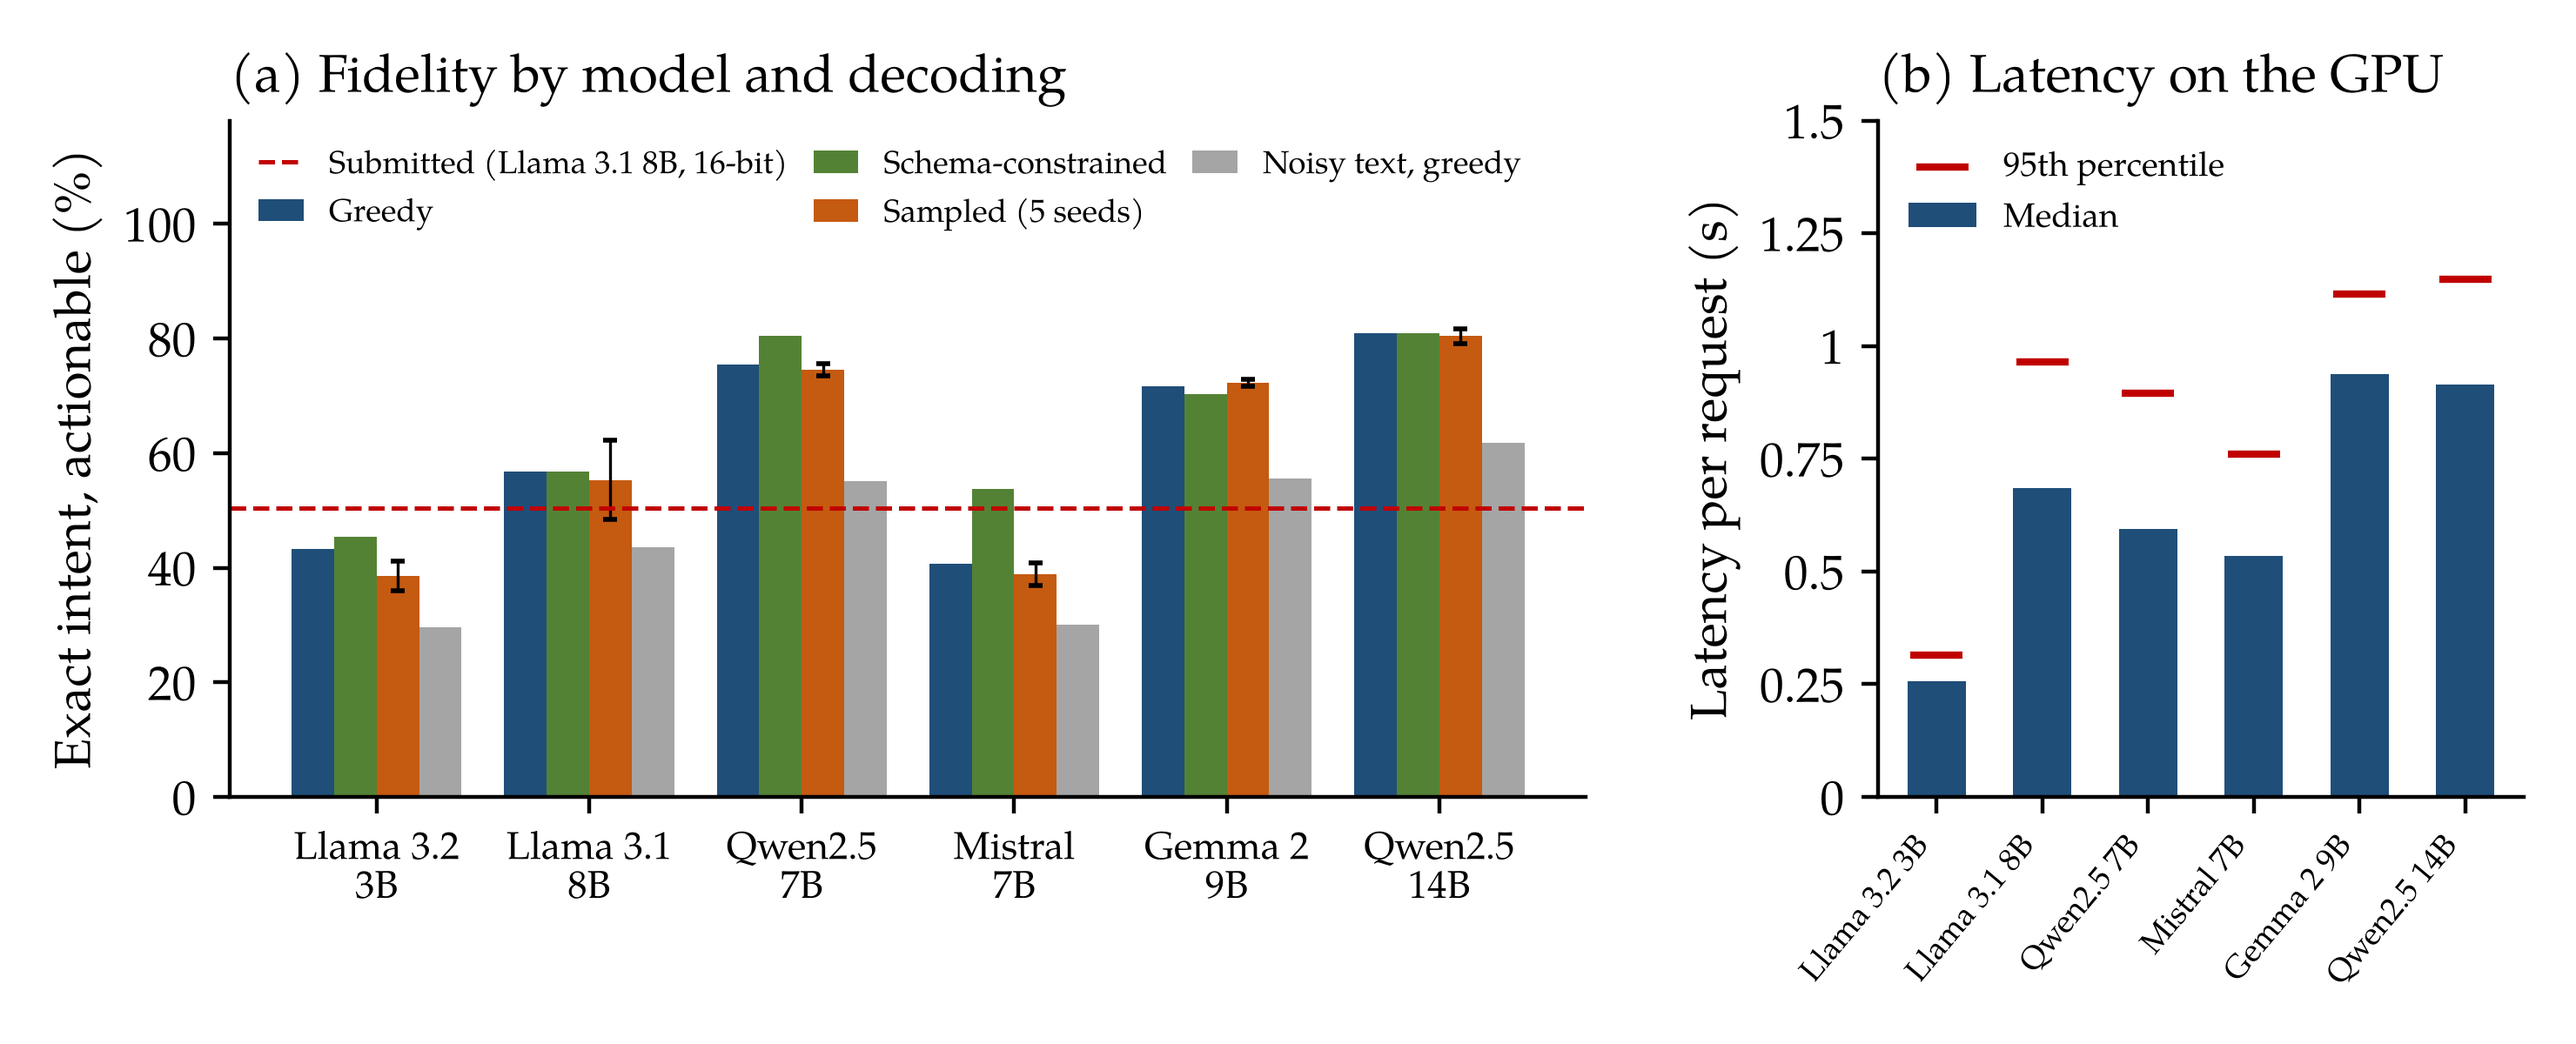
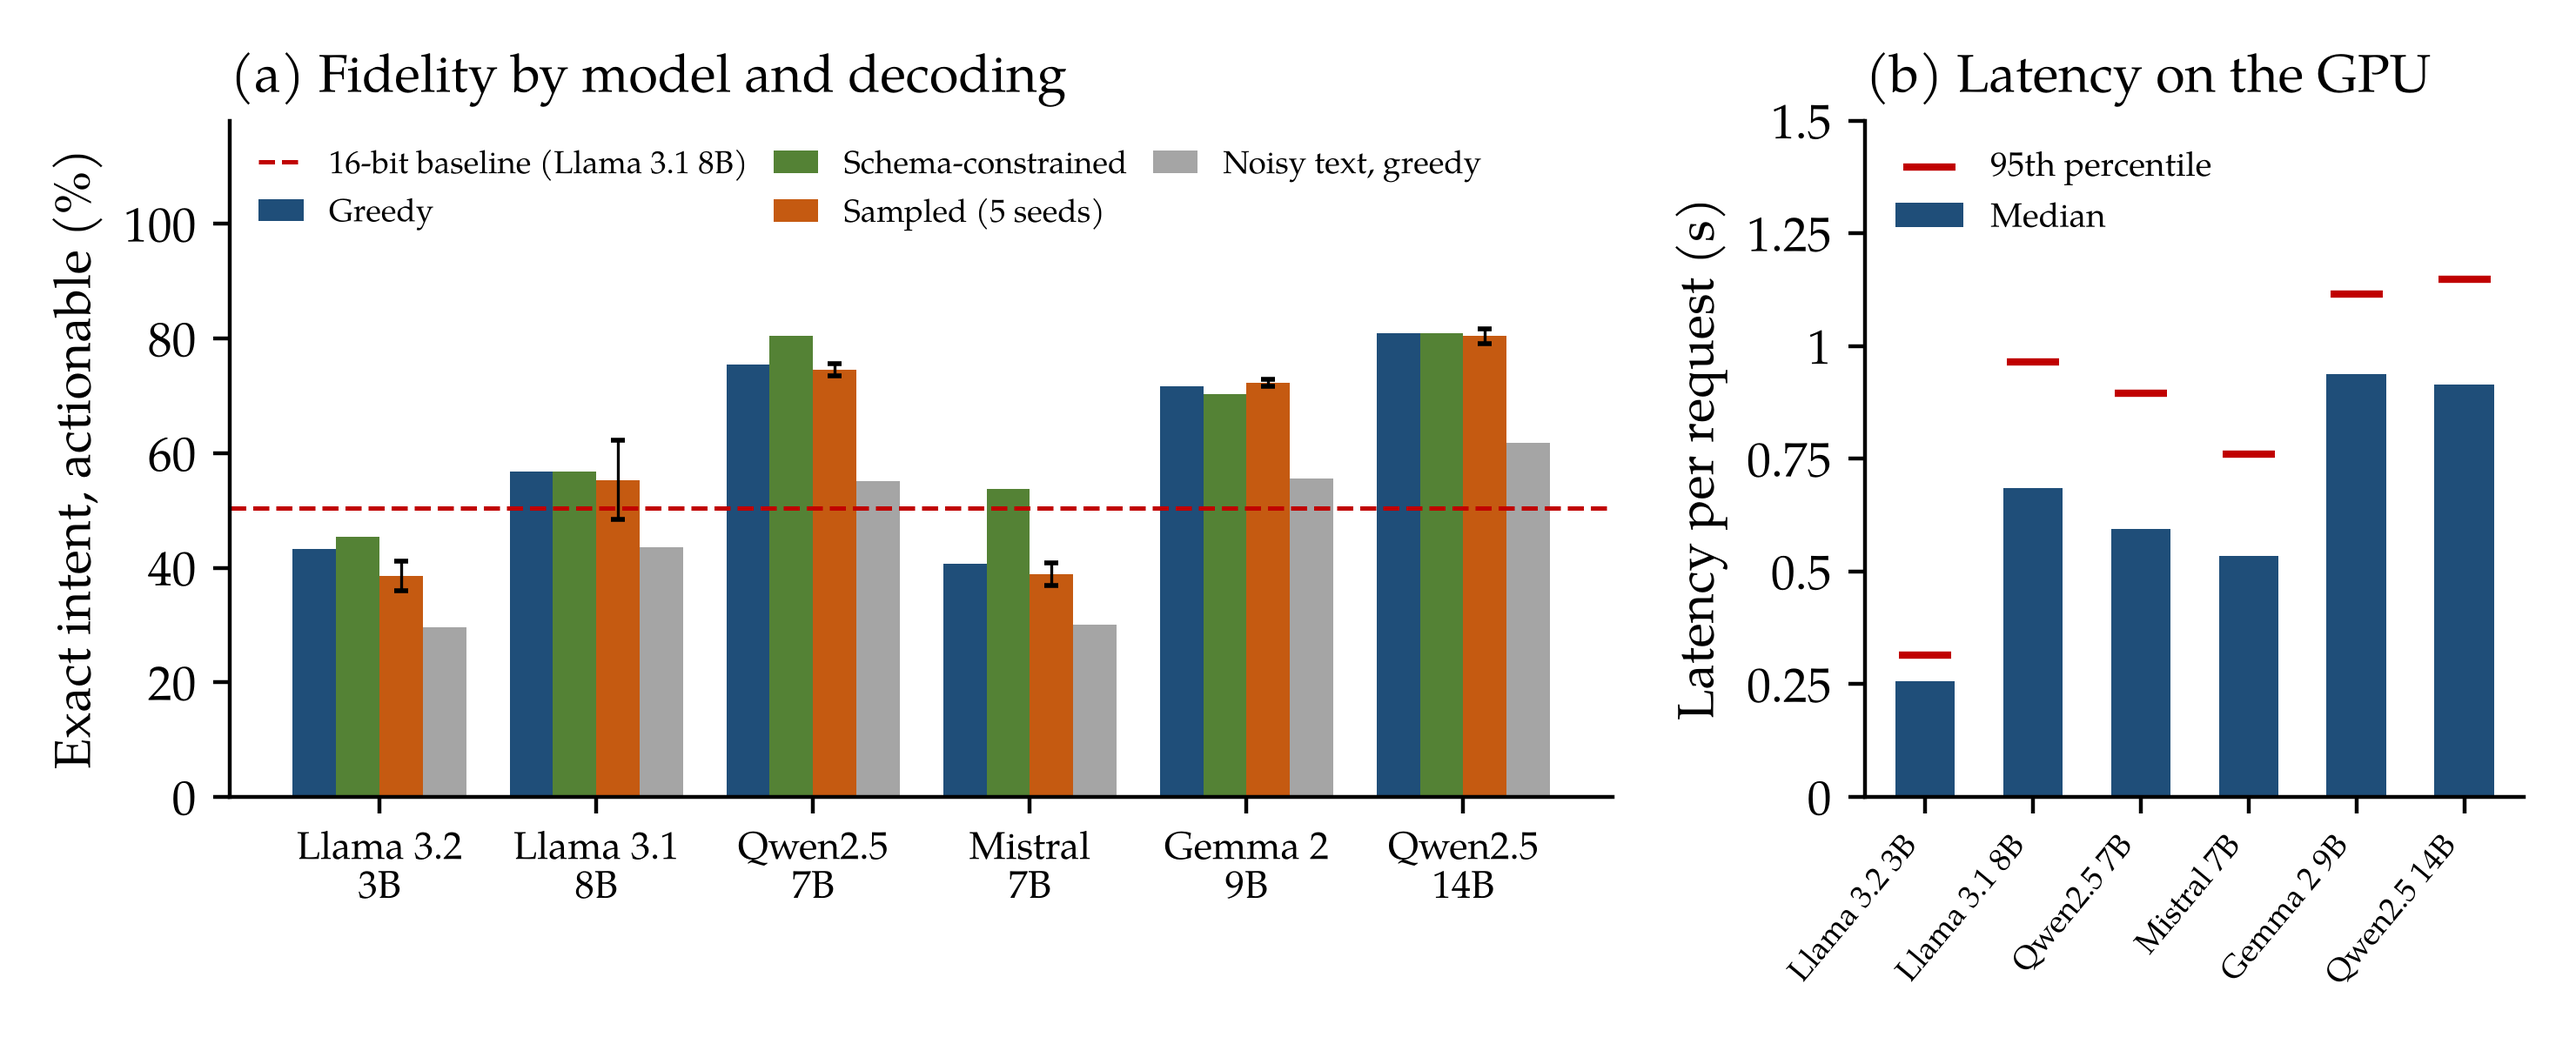
Figure 8: label the 16-bit run as the 16-bit baseline (MDPI proof)

diff --git a/code/figures_systems_r1.py b/code/figures_systems_r1.py
@@ -262,7 +262,7 @@ if "8" in which:
     a.bar(x - 0.5 * w, c, w, color=C3, label="Schema-constrained")
     a.bar(x + 0.5 * w, s, w, yerr=se, color=C2, label="Sampled (5 seeds)", capsize=1.5, error_kw=dict(lw=0.6))
     a.bar(x + 1.5 * w, n, w, color="#a5a5a5", label="Noisy text, greedy")
-    a.axhline(100 * G["llama3.1-8b-fp16 (submitted)"]["greedy"]["exact"], color="#c00000", lw=0.9, ls="--", label="Submitted (Llama 3.1 8B, 16-bit)")
+    a.axhline(100 * G["llama3.1-8b-fp16 (submitted)"]["greedy"]["exact"], color="#c00000", lw=0.9, ls="--", label="16-bit baseline (Llama 3.1 8B)")
     a.set_xticks(x); a.set_xticklabels([l for _, l in order], fontsize=8); a.set_ylim(0, 118); a.set_yticks([0, 20, 40, 60, 80, 100])
     a.set_ylabel("Exact intent, actionable (%)"); a.set_title("(a) Fidelity by model and decoding", loc="left")
     a.legend(frameon=False, fontsize=6.6, ncol=3, loc="upper left", columnspacing=0.8, handlelength=1.4)
